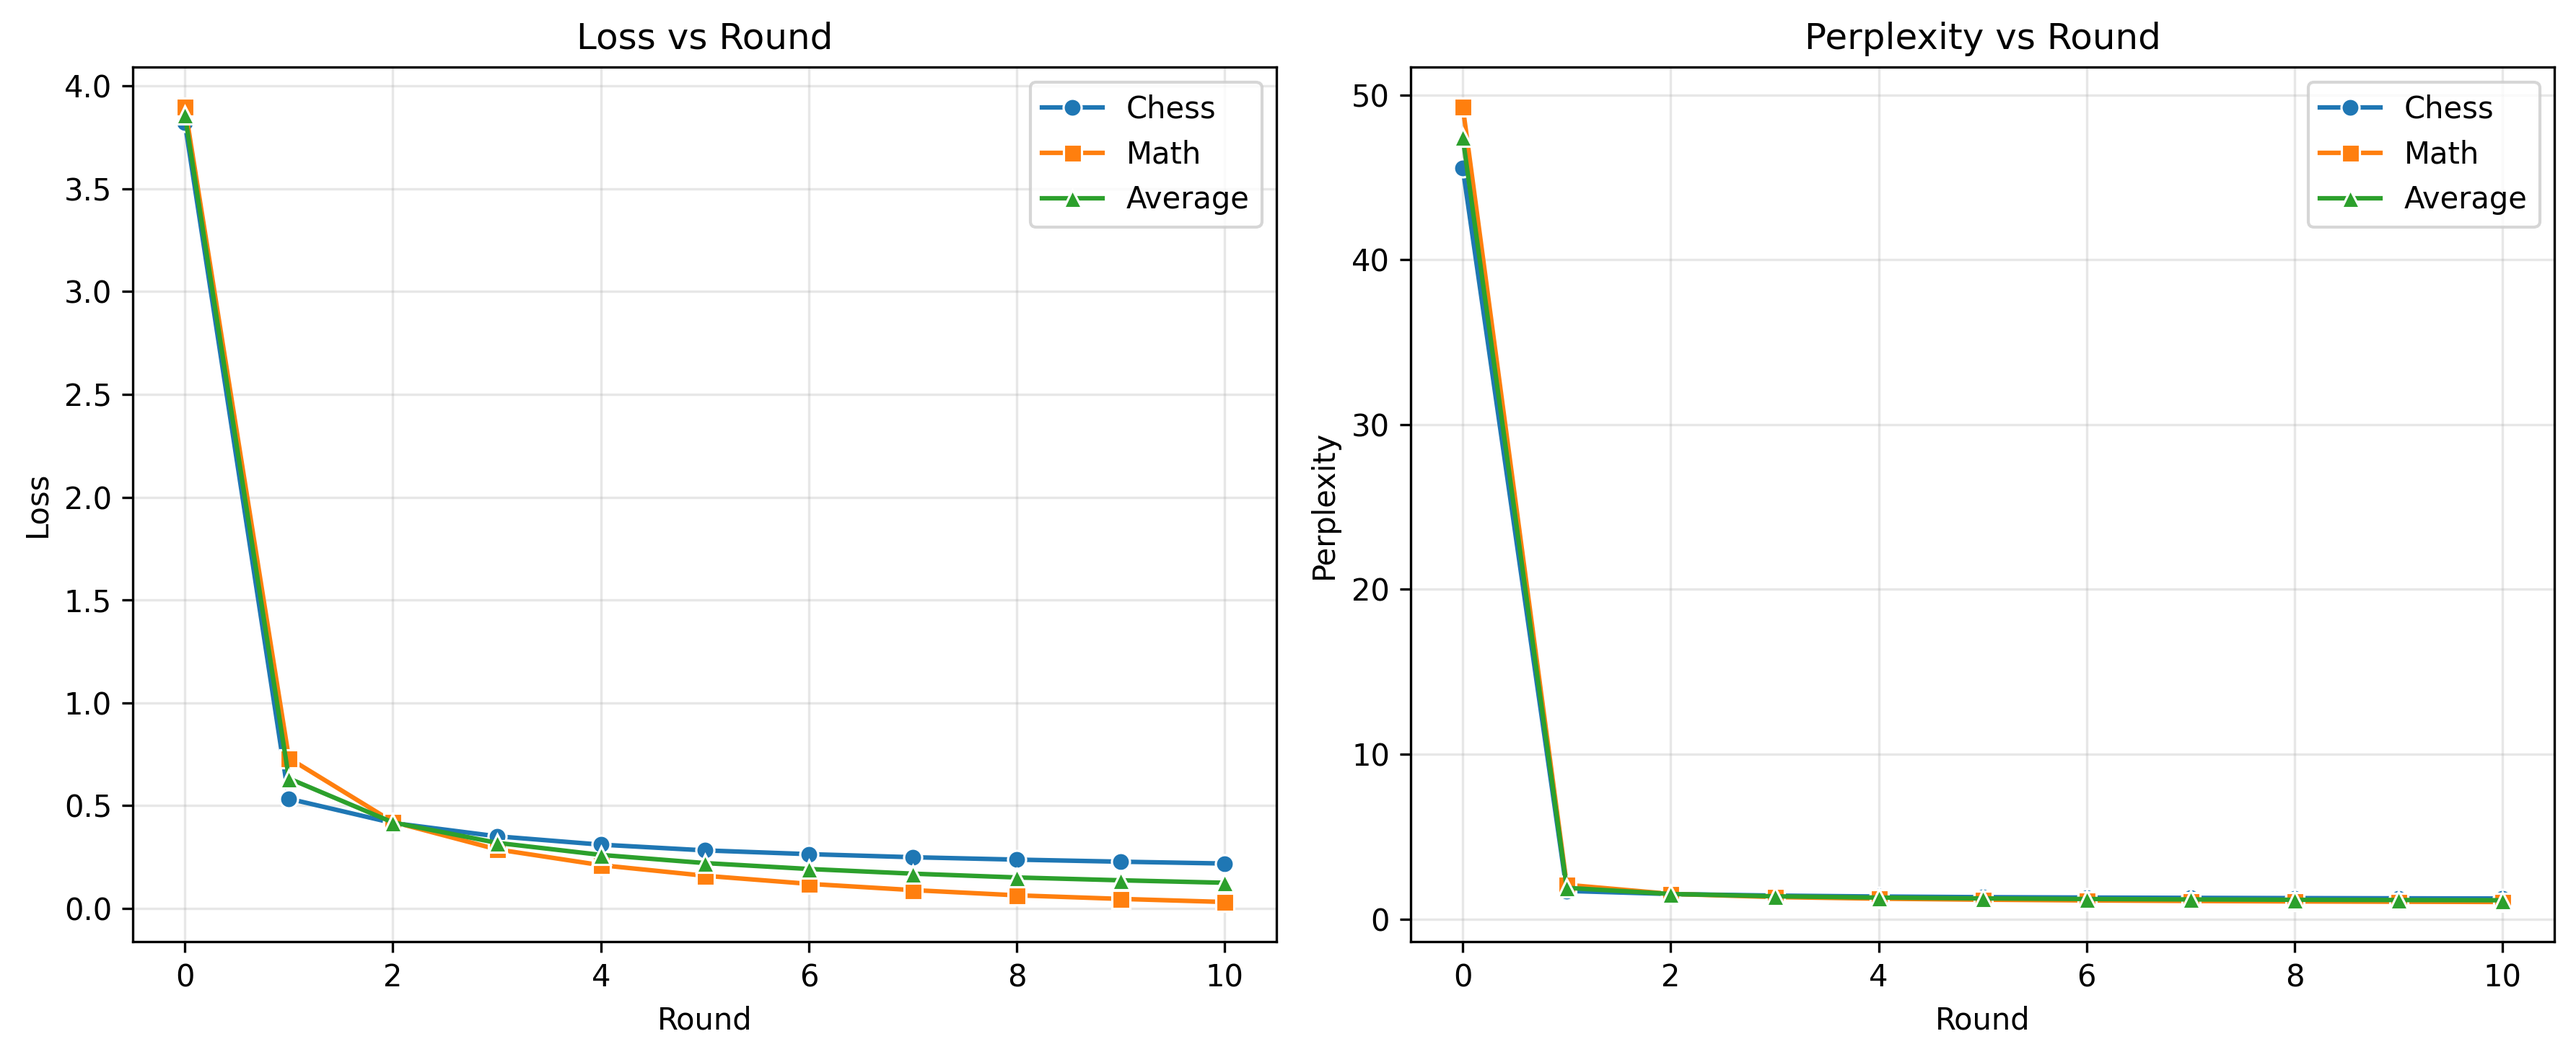
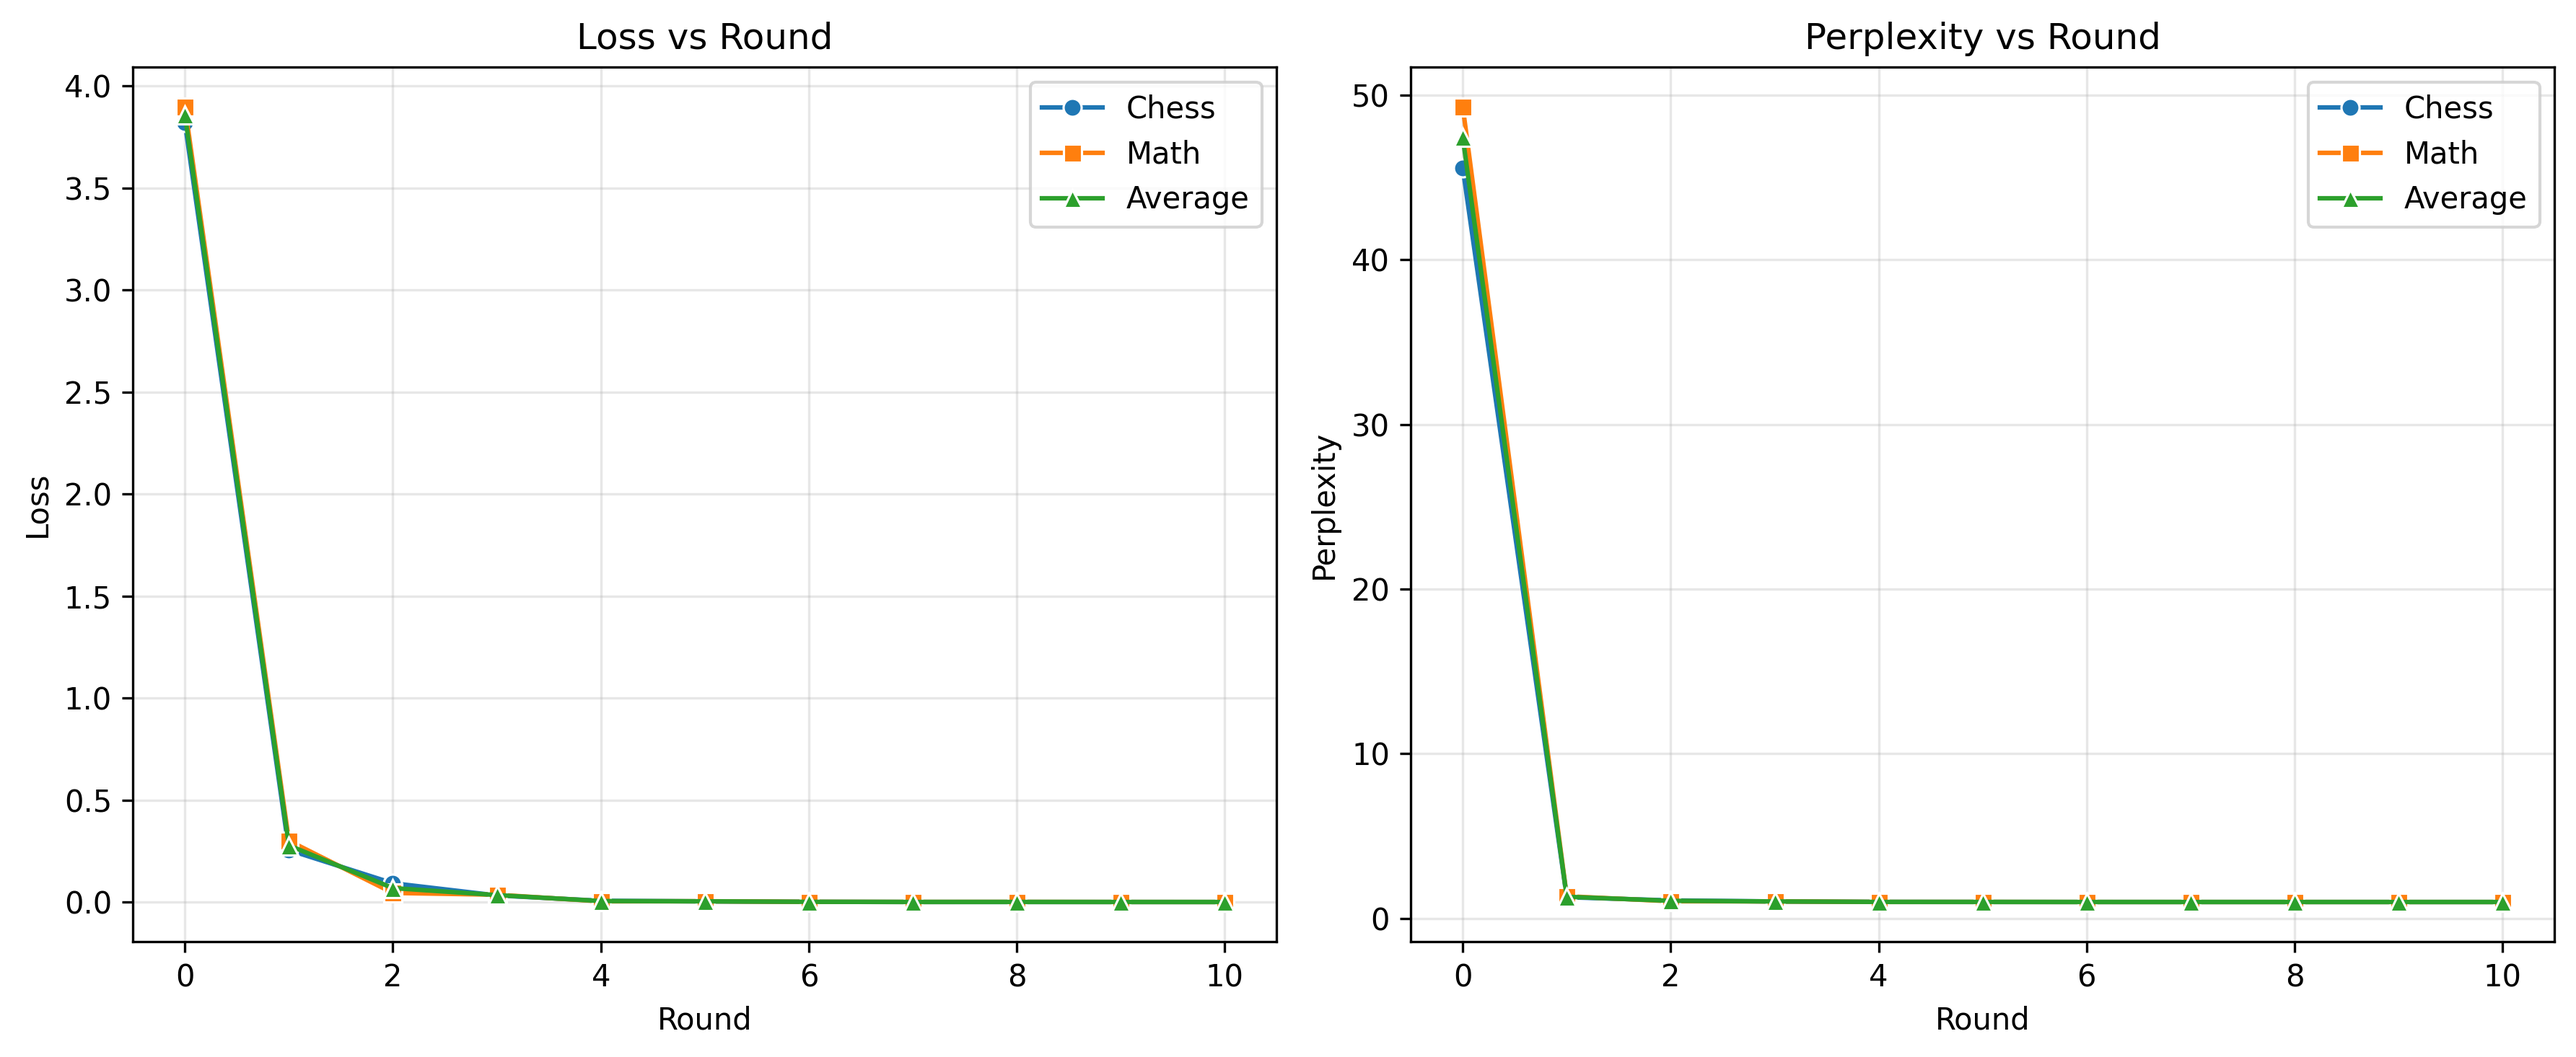
this commit is only to save changes. I have changed the per client data points.

diff --git a/src/test_models.py b/src/test_models.py
@@ -214,7 +214,7 @@ def test_all_available_rounds(sample_idx=10):
 
 if __name__ == "__main__":
     # test_round_with_provenance(round_num=1, sample_idx=10)
-    test_rounds_batch_optimized(rounds= [2], sample_idxs=list(range(20)))
+    test_rounds_batch_optimized(rounds= [10], sample_idxs=list(range(20)))
 
 
     # test_all_available_rounds(sample_idx=10)

diff --git a/src/fl_train.py b/src/fl_train.py
@@ -342,7 +342,7 @@ def get_client_dataset(cid: str):
     dataset_name = "chess" if cid == "0" else "math"
     hf_name, convert_to_chatml = dataset_adapter(dataset_name)
 
-    split = "train[:1000]"
+    split = "train[:40000]"
     dataset = load_dataset(hf_name, split=split)
 
     if dataset_name == "math":
